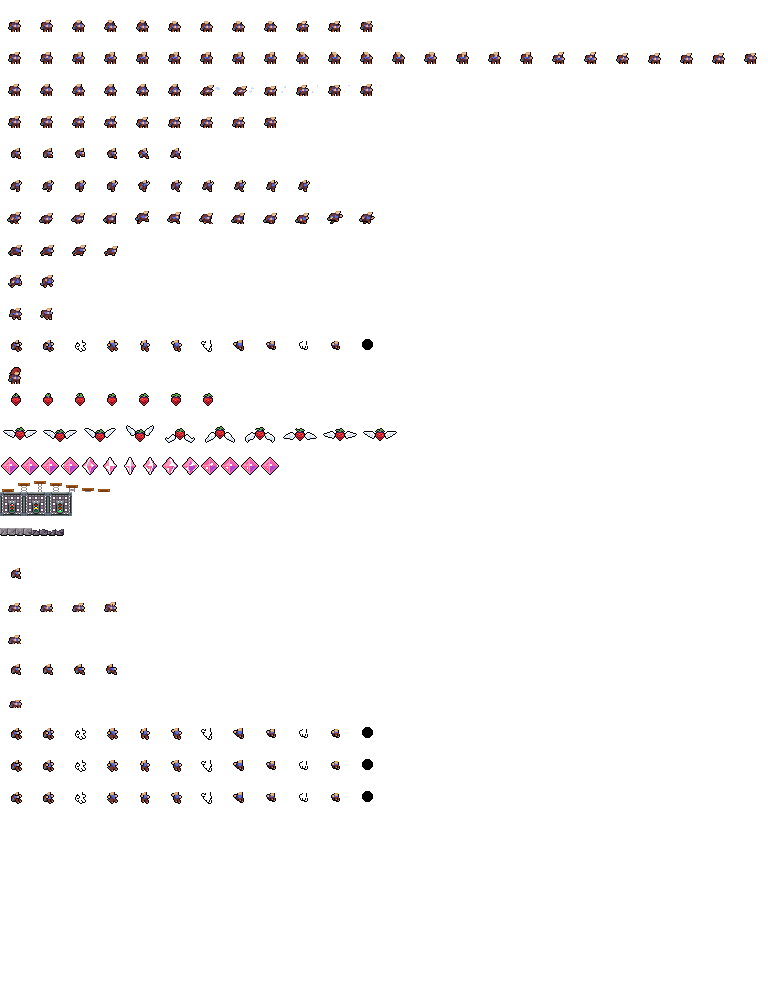
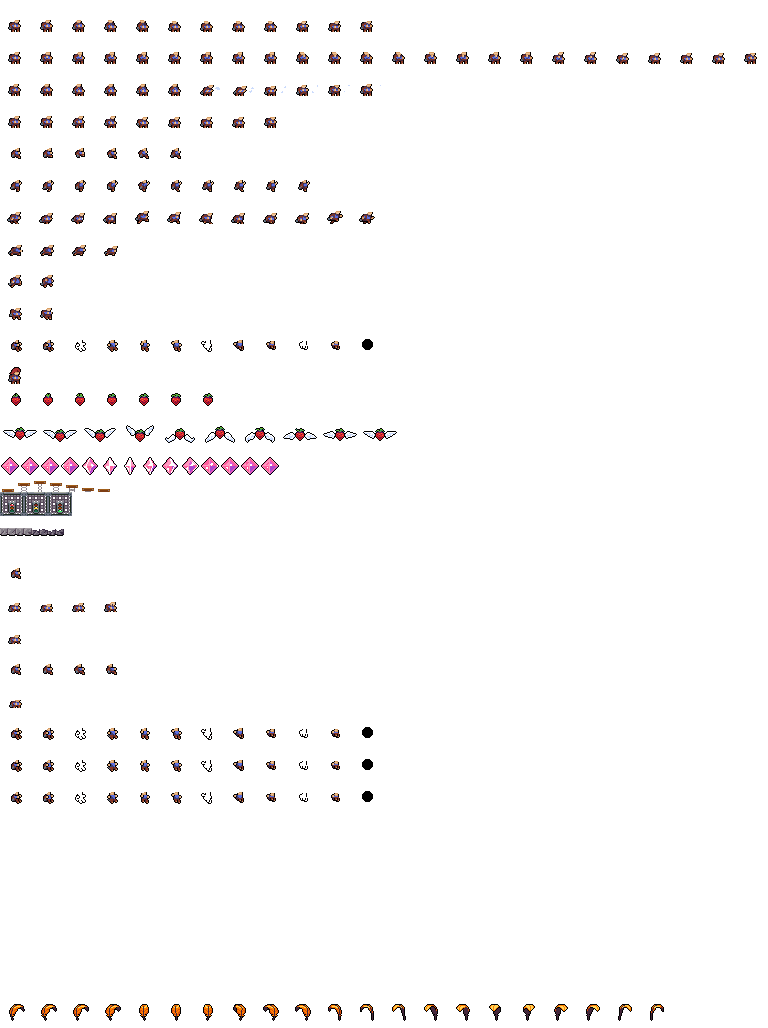
Add FlyFeather item and integrate into gameplay scene

diff --git a/Celeste/Celeste/Scenes/GameplayScene.cs b/Celeste/Celeste/Scenes/GameplayScene.cs
@@ -59,6 +59,7 @@ namespace Celeste.Scenes
         private List<DecorItem> _currentDecor;
 
         private readonly List<CollectibleItem> _collectibles = new();
+        private readonly List<FlyFeatherItem> _feathers = new();
         private CollisionSystem _collisionSystem;
         private HazardCollisioncs _hazardCollisionSystem;
         private Rectangle _worldBound;
@@ -249,7 +250,7 @@ namespace Celeste.Scenes
             else
             {
                 _hazardCollisionSystem.ResolveHazardCollision();
-                _collisionSystem.ResolveBlockCollision(previousPosition, wasCrouching);
+                _collisionSystem.ResolveBlockCollision(previousPosition, wasCrouching, dt);
 
                 if (TryHandleRoomTransition(gameTime))
                 {
@@ -289,7 +290,8 @@ namespace Celeste.Scenes
                 _gameTimer += (float)gameTime.ElapsedGameTime.TotalSeconds;
             }
 
-            if (_player.Bounds.Bottom > _worldBound.Bottom && !_player.IsInDeathSequence)
+            if (_player.position.Y > _worldBound.Bottom + PlayerConstants.PlayerOutOfBoundsDeathGrace
+                && !_player.IsInDeathSequence)
             {
                 _player.Die();
             }
@@ -568,6 +570,7 @@ namespace Celeste.Scenes
         private void RebuildCollectibles()
         {
             _collectibles.Clear();
+            _feathers.Clear();
 
             Vector2 spawn = _player.RespawnPoint;
             if (_currentRoom == 0)
@@ -626,6 +629,8 @@ namespace Celeste.Scenes
                     new Vector2(279f, 132f),
                     CollectibleItem.ItemType.Strawberry,
                     fliesAwayOnDash: true));
+
+                _feathers.Add(CreateFlyFeather(new Vector2(520f, 220f)));
             }
 
             if (_currentRoom == 6)
@@ -636,6 +641,8 @@ namespace Celeste.Scenes
                     new Vector2(37f, 365f),
                     CollectibleItem.ItemType.Strawberry,
                     fliesAwayOnDash: true));
+
+                _feathers.Add(CreateFlyFeather(new Vector2(610f, 245f)));
             }
         }
 
@@ -667,6 +674,14 @@ namespace Celeste.Scenes
             return collectible;
         }
 
+        private FlyFeatherItem CreateFlyFeather(Vector2 position, bool shielded = false)
+        {
+            ItemAnimation animation = ItemAnimationFactory.CreateFlyFeather(_catalog);
+            animation.Position = position;
+            animation.Scale = GlobalConstants.DefaultScale;
+            return new FlyFeatherItem(animation, position, shielded);
+        }
+
         private void UpdateCollectibles(GameTime gameTime)
         {
             foreach (var collectible in _collectibles)
@@ -688,6 +703,16 @@ namespace Celeste.Scenes
                     _player.Maddy.OnDashRefill();
                 }
             }
+
+            foreach (FlyFeatherItem feather in _feathers)
+            {
+                feather.Update(gameTime);
+                if (feather.TryCollect(_player))
+                {
+                    SoundManager.Play("collect");
+                    _player.StartStarFly();
+                }
+            }
         }
 
         private void DrawCollectibles(SpriteBatch spriteBatch)
@@ -695,6 +720,11 @@ namespace Celeste.Scenes
             foreach (var collectible in _collectibles)
             {
                 collectible.Draw(spriteBatch);
+            }
+
+            foreach (FlyFeatherItem feather in _feathers)
+            {
+                feather.Draw(spriteBatch);
             }
         }
 

diff --git a/Celeste/Celeste/Items/FlyFeatherItem.cs b/Celeste/Celeste/Items/FlyFeatherItem.cs
@@ -1,0 +1,117 @@
+using System;
+using Celeste.Character;
+using Microsoft.Xna.Framework;
+using Microsoft.Xna.Framework.Graphics;
+
+namespace Celeste.Items
+{
+    public sealed class FlyFeatherItem : Celeste.GamePlay.IUpdateable, Celeste.GamePlay.IDrawable
+    {
+        private const float RespawnSeconds = 2.5f;
+        private readonly ItemAnimation _animation;
+        private readonly bool _startsShielded;
+        private float _respawnTimer;
+        private bool _shielded;
+
+        public FlyFeatherItem(ItemAnimation animation, Vector2 position, bool shielded = false)
+        {
+            _animation = animation ?? throw new ArgumentNullException(nameof(animation));
+            Position = position;
+            _startsShielded = shielded;
+            _shielded = shielded;
+            Active = true;
+        }
+
+        public Vector2 Position
+        {
+            get => _animation.Position;
+            set => _animation.Position = value;
+        }
+
+        public float Scale
+        {
+            get => _animation.Scale;
+            set => _animation.Scale = value;
+        }
+
+        public bool Active { get; private set; }
+
+        public Rectangle Bounds
+        {
+            get
+            {
+                if (!Active)
+                {
+                    return Rectangle.Empty;
+                }
+
+                int width = (int)(_animation.Clip.FrameWidth * Scale);
+                int height = (int)(_animation.Clip.FrameHeight * Scale);
+                return new Rectangle((int)Position.X, (int)Position.Y, width, height);
+            }
+        }
+
+        public void Reset()
+        {
+            Active = true;
+            _shielded = _startsShielded;
+            _respawnTimer = 0f;
+            _animation.Reset();
+        }
+
+        public void Update(GameTime gameTime)
+        {
+            float dt = (float)gameTime.ElapsedGameTime.TotalSeconds;
+            if (!Active)
+            {
+                _respawnTimer = Math.Max(0f, _respawnTimer - dt);
+                if (_respawnTimer <= 0f)
+                {
+                    Active = true;
+                    _shielded = _startsShielded;
+                    _animation.Reset();
+                }
+                return;
+            }
+
+            _animation.Update(gameTime);
+        }
+
+        public bool TryCollect(Madeline player)
+        {
+            if (player == null || !Active || !Bounds.Intersects(player.Bounds))
+            {
+                return false;
+            }
+
+            if (_shielded && !player.isDashing)
+            {
+                player.RefillDash();
+                player.BounceAwayFrom(GetCenter());
+                return false;
+            }
+
+            Active = false;
+            _respawnTimer = RespawnSeconds;
+            _shielded = _startsShielded;
+            _animation.Reset();
+            return true;
+        }
+
+        public void Draw(SpriteBatch spriteBatch)
+        {
+            if (!Active)
+            {
+                return;
+            }
+
+            _animation.Draw(spriteBatch, _shielded ? Color.LightBlue : Color.White);
+        }
+
+        private Vector2 GetCenter()
+        {
+            Rectangle bounds = Bounds;
+            return new Vector2(bounds.Center.X, bounds.Center.Y);
+        }
+    }
+}

diff --git a/Celeste/Celeste/Items/ItemAnimationFactory.cs b/Celeste/Celeste/Items/ItemAnimationFactory.cs
@@ -15,6 +15,9 @@ namespace Celeste.Items
         public static ItemAnimation CreateFlyStaw(AnimationCatalog catalog)
             => new ItemAnimation(GetClip(catalog, AnimationKeys.ItemFlyStaw));
 
+        public static ItemAnimation CreateFlyFeather(AnimationCatalog catalog)
+            => new ItemAnimation(GetClip(catalog, AnimationKeys.ItemFlyFeather));
+
         public static ItemAnimation CreateCrystal(AnimationCatalog catalog)
             => new ItemAnimation(GetClip(catalog, AnimationKeys.ItemCrystal));
 
